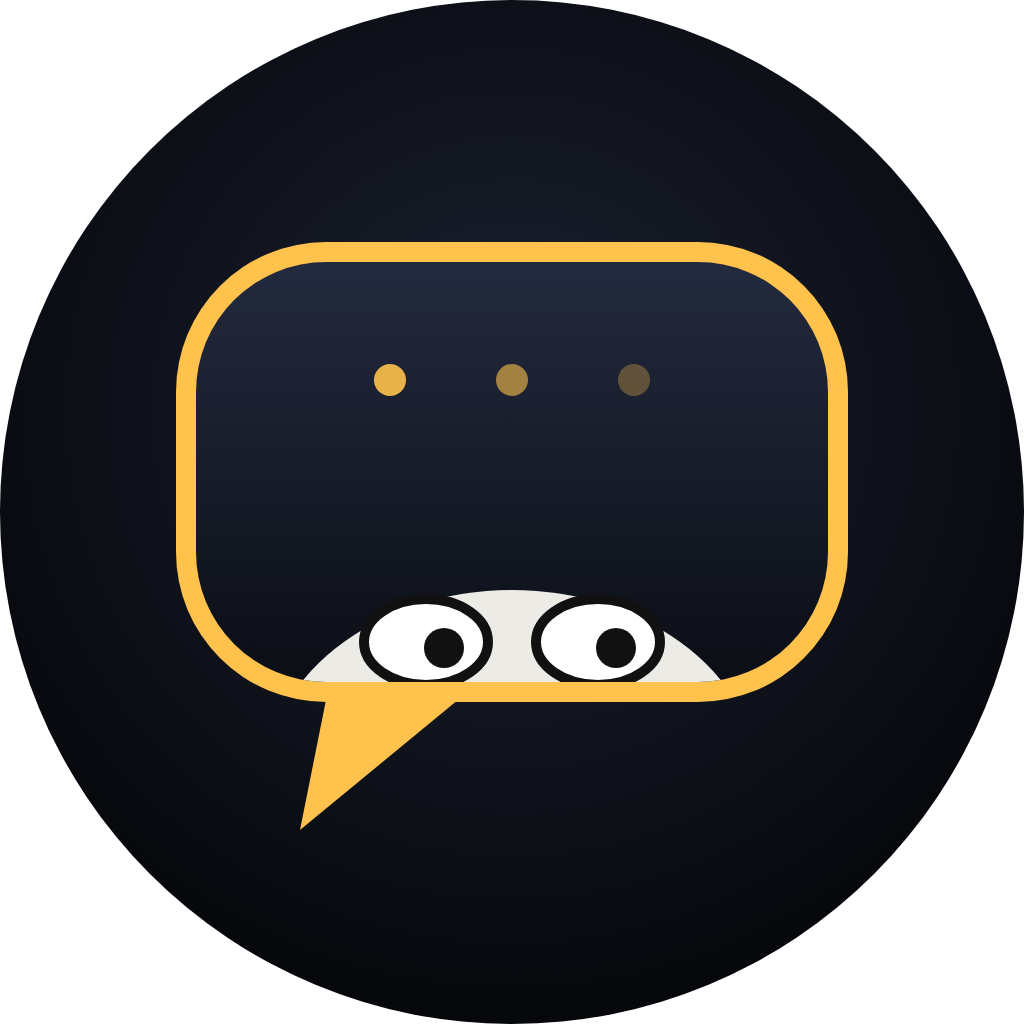
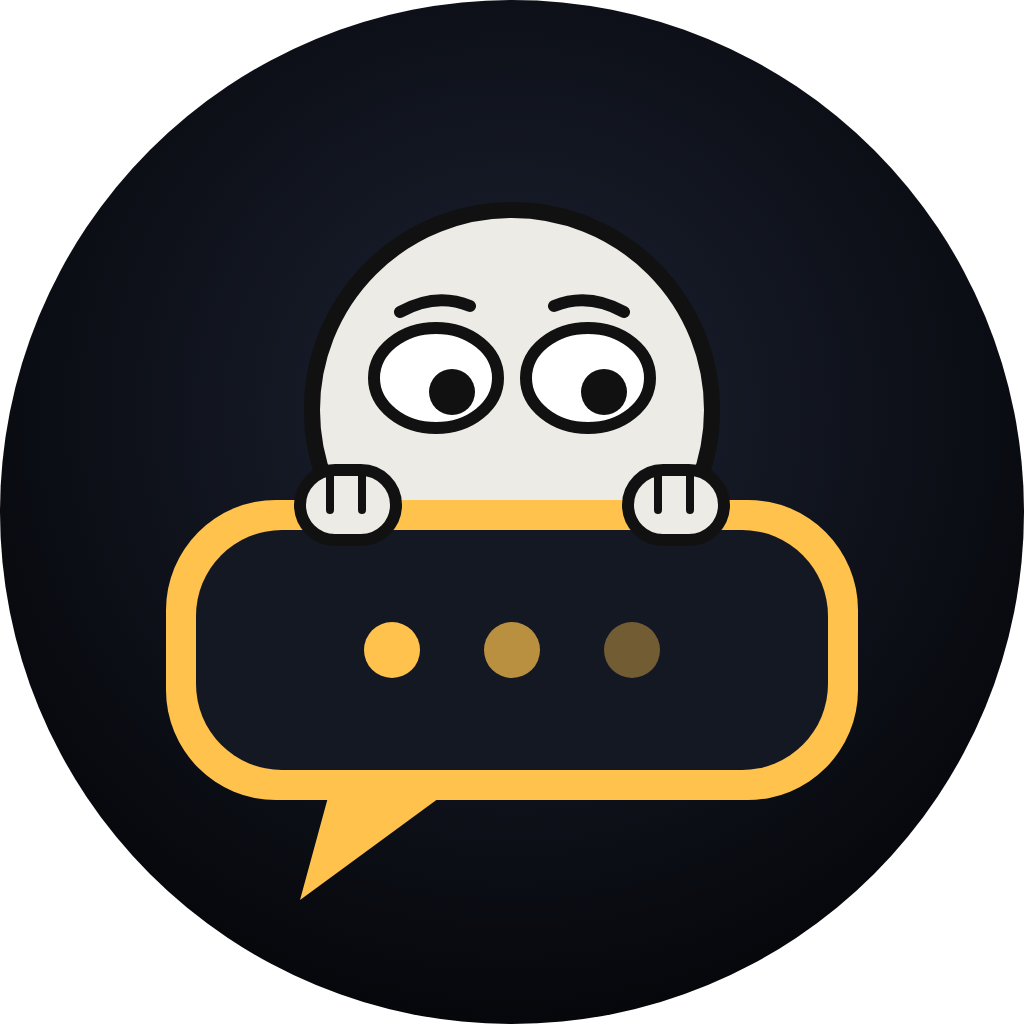
Foto de perfil: el monigote asomándose por encima del bocadillo
Claude-Session: https://claude.ai/code/session_01LFWNgVmWwMZEkiZZJKBtBD

Changed region(s): [[0.1562, 0.1875, 0.8438, 0.875]]

diff --git a/stickman-channels/brand/lamayoriadijo/parts.js b/stickman-channels/brand/lamayoriadijo/parts.js
@@ -40,22 +40,26 @@ const wordmark = (w = 1600, h = 520, tag = true, col = '#fff') => `<svg xmlns="h
 <path d="M185 362 H822 L800 392 H185 A15 15 0 0 1 185 362Z" fill="${C.amber}"/>
 ${tag ? `<text x="800" y="470" text-anchor="middle" font-family="Montserrat" font-weight="800" font-size="40" letter-spacing="10" fill="${col}" opacity=".75">TÚ DECIDES CÓMO SIGUE LA HISTORIA</text>` : ''}
 </svg>`;
-// foto de perfil: un bocadillo de comentario con algo asomando dentro
+// foto de perfil: el monigote asomándose por encima de un bocadillo de comentario
 const bubble = (ring = true) => `<svg xmlns="http://www.w3.org/2000/svg" viewBox="0 0 1024 1024" width="1024" height="1024">
-<defs><radialGradient id="bbg" cx="50%" cy="40%" r="65%"><stop offset="0" stop-color="#1c2232"/><stop offset="1" stop-color="#040508"/></radialGradient>
-<linearGradient id="bin" x1="0" y1="0" x2="0" y2="1"><stop offset="0" stop-color="#232a3e"/><stop offset="1" stop-color="#0b0e15"/></linearGradient>
-<clipPath id="bcl"><rect x="196" y="262" width="632" height="420" rx="130"/></clipPath></defs>
+<defs><radialGradient id="bbg" cx="50%" cy="40%" r="65%"><stop offset="0" stop-color="#1c2232"/><stop offset="1" stop-color="#040508"/></radialGradient></defs>
 <circle cx="512" cy="512" r="512" fill="url(#bbg)"/>
-<path d="M330 680 L300 830 L470 690Z" fill="${C.amber}"/>
-<rect x="176" y="242" width="672" height="460" rx="150" fill="${C.amber}"/>
-<rect x="196" y="262" width="632" height="420" rx="130" fill="url(#bin)"/>
-<g clip-path="url(#bcl)">
- <ellipse cx="512" cy="790" rx="250" ry="200" fill="${C.bone}"/>
- <ellipse cx="426" cy="642" rx="62" ry="43" fill="#fff" stroke="#111" stroke-width="10"/>
- <ellipse cx="598" cy="642" rx="62" ry="43" fill="#fff" stroke="#111" stroke-width="10"/>
- <circle cx="444" cy="648" r="20" fill="#111"/><circle cx="616" cy="648" r="20" fill="#111"/>
- <circle cx="390" cy="380" r="16" fill="${C.amber}" opacity=".9"/><circle cx="512" cy="380" r="16" fill="${C.amber}" opacity=".6"/><circle cx="634" cy="380" r="16" fill="${C.amber}" opacity=".3"/>
+<!-- cabeza: asoma por detrás del bocadillo -->
+<circle cx="512" cy="410" r="200" fill="${C.bone}" stroke="#111" stroke-width="16"/>
+<ellipse cx="436" cy="378" rx="62" ry="50" fill="#fff" stroke="#111" stroke-width="12"/>
+<ellipse cx="588" cy="378" rx="62" ry="50" fill="#fff" stroke="#111" stroke-width="12"/>
+<circle cx="452" cy="392" r="23" fill="#111"/><circle cx="604" cy="392" r="23" fill="#111"/>
+<path d="M400 312 Q436 292 470 306 M554 306 Q588 292 624 312" fill="none" stroke="#111" stroke-width="12" stroke-linecap="round"/>
+<!-- bocadillo -->
+<path d="M330 790 L300 900 L450 790Z" fill="${C.amber}"/>
+<rect x="166" y="500" width="692" height="300" rx="110" fill="${C.amber}"/>
+<rect x="196" y="530" width="632" height="240" rx="86" fill="#141823"/>
+<circle cx="392" cy="650" r="28" fill="${C.amber}"/><circle cx="512" cy="650" r="28" fill="${C.amber}" opacity=".7"/><circle cx="632" cy="650" r="28" fill="${C.amber}" opacity=".4"/>
+<!-- manos agarrando el borde -->
+<g fill="${C.bone}" stroke="#111" stroke-width="12">
+ <rect x="300" y="470" width="96" height="70" rx="35"/><rect x="628" y="470" width="96" height="70" rx="35"/>
 </g>
+<path d="M330 476 V510 M362 476 V510 M658 476 V510 M690 476 V510" stroke="#111" stroke-width="8" stroke-linecap="round"/>
 ${ring ? `<circle cx="512" cy="512" r="494" fill="none" stroke="${C.amber}" stroke-width="12" opacity=".5"/>` : ''}
 </svg>`;
 module.exports = { C, avatar, bubble, wordmark, mirror };

diff --git a/stickman-channels/brand/lamayoriadijo/IDENTIDAD.md b/stickman-channels/brand/lamayoriadijo/IDENTIDAD.md
@@ -29,7 +29,7 @@
 «LA MAYORÍA DIJO» en Anton, con la Í en ámbar. Debajo, la barra de votos (ámbar contra verde), siempre casi empatada: es la firma del canal.
 
 ## Foto de perfil
-Un bocadillo de comentario ámbar con unos ojos asomando dentro. Junta la votación y el terror, y se reconoce en tamaño pequeño.
+El monigote asomándose por encima de un bocadillo de comentario, agarrado al borde: el protagonista esperando a ver qué decís. Se reconoce en tamaño pequeño y no depende de ninguna historia.
 `serie-no-mires-atras.png` (el retrovisor) queda como portada de la serie.
 
 ## Paleta
